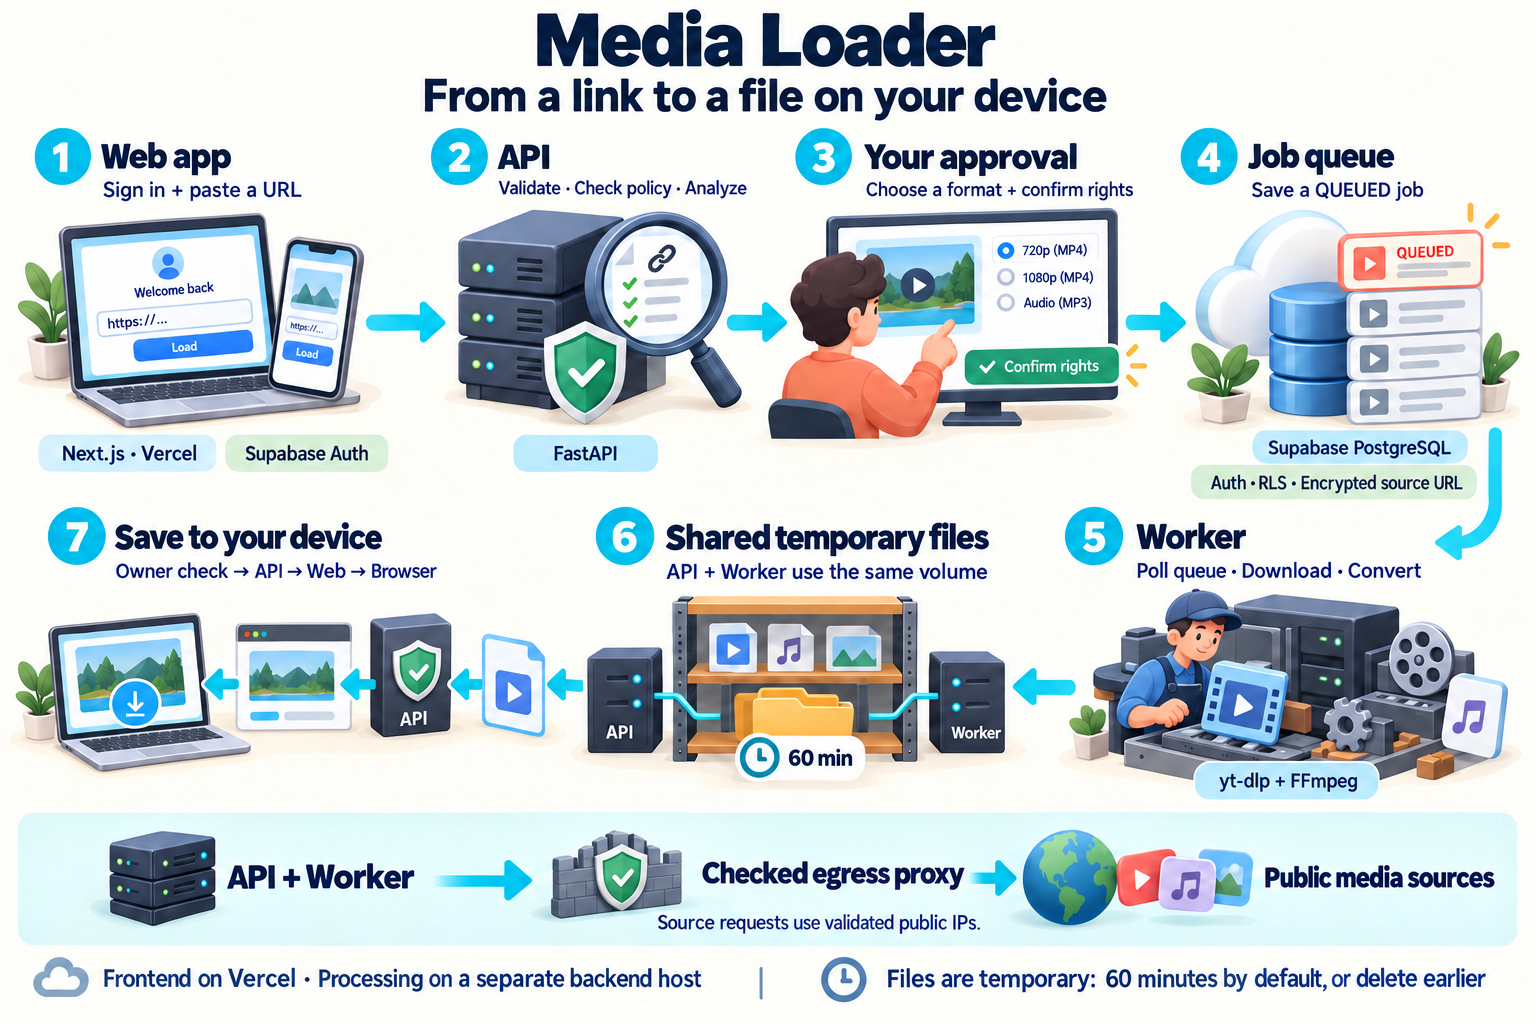
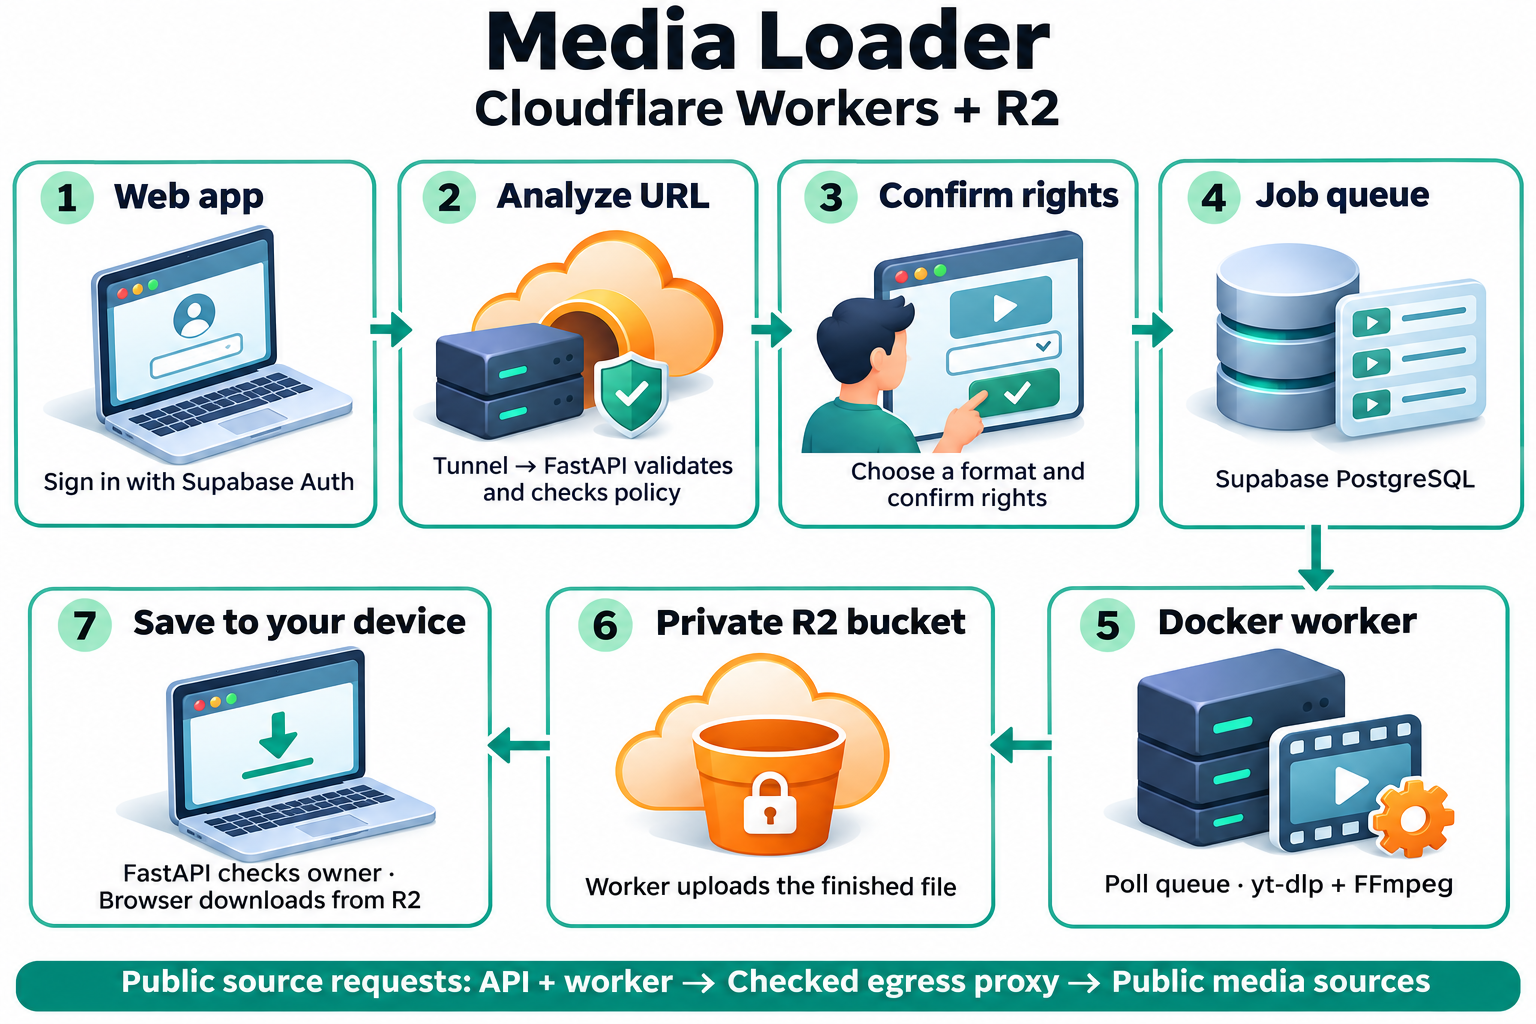
fix(web): improve signup and password recovery (#97)
* fix(web): improve signup and recovery follow-up

* docs(deploy): refresh Cloudflare architecture and setup

diff --git a/apps/web/e2e/auth.spec.ts b/apps/web/e2e/auth.spec.ts
@@ -71,7 +71,7 @@ test("signup confirmation and resend cooldown survive presentation redirects", a
   await page.locator("#auth-confirm").fill("Resize-fixture-123");
   await page.clock.install();
   await page.getByRole("button", { name: "Create account", exact: true }).click();
-  const heading = page.getByRole("heading", { name: "Check your email", exact: true });
+  const heading = page.getByRole("heading", { name: "Next steps", exact: true });
   await expect(heading).toBeVisible();
   await page.clock.runFor(20_000);
   for (const viewport of [
@@ -82,6 +82,8 @@ test("signup confirmation and resend cooldown survive presentation redirects", a
     if (viewport.width === 390) await expect(page).toHaveURL(/\/auth\/register$/);
     else await expect(page.getByRole("dialog")).toBeVisible();
     await expect(heading).toBeVisible();
+    await expect(page.getByRole("link", { name: "Back to sign in" })).toBeVisible();
+    await expect(page.getByRole("link", { name: "Forgot password?" })).toBeVisible();
     await expect(page.getByRole("button", { name: /Resend in/ })).toBeDisabled();
     await expect(page.getByRole("button", { name: /Resend in/ })).toContainText("40");
     await expect(page.locator("#auth-password")).toHaveCount(0);
@@ -90,6 +92,13 @@ test("signup confirmation and resend cooldown survive presentation redirects", a
   await expect(
     page.getByRole("button", { name: "Resend confirmation email", exact: true })
   ).toBeEnabled();
+  await page.getByRole("link", { name: "Forgot password?" }).click();
+  await expect(
+    page.getByRole("dialog").getByLabel("Email", { exact: true })
+  ).toBeVisible();
+  await expect(
+    page.getByRole("dialog").getByRole("button", { name: "Send reset link" })
+  ).toBeVisible();
 });
 
 test("callback failure remains visible with an existing session across presentations", async ({
@@ -133,7 +142,7 @@ test("pending signup finishes in the new presentation", async ({ page }) => {
   await expect(page).toHaveURL(/\/auth\/register$/);
   release();
   await expect(
-    page.getByRole("heading", { name: "Check your email", exact: true })
+    page.getByRole("heading", { name: "Next steps", exact: true })
   ).toBeVisible();
 });
 
@@ -300,10 +309,12 @@ test("registration validates passwords and sends optional display name metadata"
   const request = await signup;
   const { data } = request.postDataJSON();
   expect(data).toEqual({ full_name: "Fixture Member", language: "en" });
-  await expect(page.locator("form [role=status]")).toContainText("Check your email");
+  await expect(page.locator("form [role=status]")).toContainText(
+    "If your email still needs confirmation"
+  );
   await expect(page).toHaveURL(/\/\?auth=register$/);
   await expect(
-    page.getByRole("heading", { name: "Check your email", exact: true })
+    page.getByRole("heading", { name: "Next steps", exact: true })
   ).toBeVisible();
   await expect(page.getByLabel("Password", { exact: true })).toHaveCount(0);
   await expect(page.getByRole("button", { name: /Resend in/ })).toBeDisabled();
@@ -380,6 +391,7 @@ test("recovery session updates password and signs out before login", async ({
   context,
   page,
 }) => {
+  await page.setViewportSize({ width: 1440, height: 900 });
   await context.addCookies([
     {
       name: "sb-localhost-auth-token-code-verifier",
@@ -388,7 +400,17 @@ test("recovery session updates password and signs out before login", async ({
     },
   ]);
   await page.goto("/auth/callback?code=mock-code&next=/auth/reset-password");
-  await expect(page).toHaveURL(/\/auth\/reset-password$/);
+  await expect(page).toHaveURL(/\/\?auth=reset-password$/);
+  const modal = page.getByRole("dialog");
+  await expect(modal).toBeVisible();
+  const bounds = (await modal.boundingBox())!;
+  const viewport = await page.evaluate(() => ({
+    width: document.documentElement.clientWidth,
+    height: document.documentElement.clientHeight,
+  }));
+  // A reserved scrollbar gutter can shift the usable viewport center.
+  expect(Math.abs(bounds.x + bounds.width / 2 - viewport.width / 2)).toBeLessThan(8);
+  expect(Math.abs(bounds.y + bounds.height / 2 - viewport.height / 2)).toBeLessThan(8);
   const newPassword = page.getByLabel("New password", { exact: true });
   const confirmation = page.getByLabel("Confirm password", { exact: true });
   await expect(newPassword).toBeEnabled();
@@ -401,6 +423,14 @@ test("recovery session updates password and signs out before login", async ({
   await expect(page.locator("#auth-confirm-status")).toBeEmpty();
   await newPassword.fill("Fixture-new-password-123");
   await confirmation.fill("Fixture-new-password-123");
+  await page.setViewportSize({ width: 390, height: 844 });
+  await expect(page).toHaveURL(/\/auth\/reset-password$/);
+  await expect(modal).toHaveCount(0);
+  await expect(newPassword).toHaveValue("Fixture-new-password-123");
+  await page.setViewportSize({ width: 1440, height: 900 });
+  await expect(page).toHaveURL(/\/\?auth=reset-password$/);
+  await expect(modal).toBeVisible();
+  await expect(confirmation).toHaveValue("Fixture-new-password-123");
   const requests: string[] = [];
   page.on("request", (request) => {
     if (request.method() === "PUT" && request.url().endsWith("/auth/v1/user"))
@@ -498,11 +528,14 @@ test("reset finishes local signout after a remote error without repeating the up
   await expect(page.locator("form [role=alert]")).toContainText("Password updated");
   await expect(page.getByLabel("New password", { exact: true })).toHaveValue("");
   await expect(page.getByLabel("New password", { exact: true })).toBeDisabled();
+  await page.setViewportSize({ width: 390, height: 844 });
+  await expect(page).toHaveURL(/\/auth\/reset-password$/);
+  await page.setViewportSize({ width: 1440, height: 900 });
+  await expect(page.getByRole("dialog")).toBeVisible();
   await page.getByRole("button", { name: "Finish signing out" }).click();
   await expect(page).toHaveURL(/\/\?auth=login&reset=success$/);
   expect(updates).toBe(1);
-  // The SDK clears the local session even when the remote logout returns 500.
-  expect(logouts).toBe(1);
+  expect(logouts).toBe(2);
   await page.goto("/dashboard");
   await expect(page).toHaveURL("/");
 });

diff --git a/apps/web/components/auth-form.tsx b/apps/web/components/auth-form.tsx
@@ -222,7 +222,7 @@ export function AuthForm({
       setError(t(reset ? "auth.recoveryExpired" : "auth.googleError"));
     if (mode === "login" && params.get("reset") === "success")
       setMessage(t("auth.resetSuccess"));
-    if (reset) {
+    if (reset && !passwordUpdated) {
       createClient()
         .auth.getUser()
         .then(({ data, error: sessionError }) => {
@@ -237,7 +237,7 @@ export function AuthForm({
     return () => {
       active = false;
     };
-  }, [mode, reset, t, setError, setMessage]);
+  }, [mode, reset, passwordUpdated, t, setError, setMessage]);
 
   function safeError(cause: { code?: string; status?: number } | null) {
     if (
@@ -284,7 +284,8 @@ export function AuthForm({
       if (input instanceof HTMLInputElement) input.focus();
       return;
     }
-    if (reset && !recoveryReady) return setError(t("auth.recoveryExpired"));
+    if (reset && !recoveryReady && !passwordUpdated)
+      return setError(t("auth.recoveryExpired"));
     setBusy(true);
     try {
       const supabase = createClient();
@@ -757,9 +758,15 @@ export function AuthForm({
                   role="status"
                   aria-live="polite"
                   aria-atomic="true"
-                  className="flex items-start gap-2 rounded-lg border border-green-500/30 bg-green-500/10 p-3 text-sm text-green-800 dark:text-green-300"
+                  className={
+                    confirmationEmail
+                      ? "rounded-lg border border-border bg-bg-surface p-3 text-sm text-text"
+                      : "flex items-start gap-2 rounded-lg border border-green-500/30 bg-green-500/10 p-3 text-sm text-green-800 dark:text-green-300"
+                  }
                 >
-                  <Check size={16} className="mt-0.5 shrink-0" aria-hidden="true" />
+                  {!confirmationEmail && (
+                    <Check size={16} className="mt-0.5 shrink-0" aria-hidden="true" />
+                  )}
                   <span>{message}</span>
                 </p>
               )}
@@ -806,7 +813,7 @@ export function AuthForm({
                   type="submit"
                   className={styles.submit}
                   data-ready={isFormComplete}
-                  disabled={busy || (reset && !recoveryReady)}
+                  disabled={busy || (reset && !recoveryReady && !passwordUpdated)}
                 >
                   {busy
                     ? t("common.loading")
@@ -825,6 +832,15 @@ export function AuthForm({
                 >
                   <ArrowLeft size={15} aria-hidden="true" />
                   {t("auth.backToLogin")}
+                </Link>
+              )}
+              {confirmationEmail && (
+                <Link
+                  className="inline-flex min-h-11 items-center px-2 text-primary underline-offset-4 hover:underline"
+                  href="/auth/forgot-password"
+                  onClick={(event) => switchMode(event, "forgot-password")}
+                >
+                  {t("auth.forgotLink")}
                 </Link>
               )}
               {mode === "login" && (

diff --git a/apps/web/components/landing-auth-provider.tsx b/apps/web/components/landing-auth-provider.tsx
@@ -79,7 +79,8 @@ export function LandingAuthProvider({ children }: { children: ReactNode }) {
     if (
       requestedMode !== "login" &&
       requestedMode !== "register" &&
-      requestedMode !== "forgot-password"
+      requestedMode !== "forgot-password" &&
+      requestedMode !== "reset-password"
     )
       return;
     if (window.matchMedia(FULL_PAGE_AUTH_MEDIA_QUERY).matches) {
@@ -167,7 +168,7 @@ export function LandingAuthProvider({ children }: { children: ReactNode }) {
               key={mode}
               mode={mode}
               presentation="modal"
-              onModeChange={setMode}
+              onModeChange={mode === "reset-password" ? undefined : setMode}
             />
           )}
         </div>

diff --git a/apps/web/e2e/auth-routing.spec.ts b/apps/web/e2e/auth-routing.spec.ts
@@ -87,7 +87,8 @@ test.describe("Authentication routing", () => {
     await expect(page.locator("form [role=alert]")).toBeVisible();
     await expect(page.locator("body")).not.toContainText("private-fixture");
     await page.goto("/auth/callback?next=/auth/reset-password");
-    await expect(page).toHaveURL(/\/auth\/reset-password\?error=callback$/);
+    await expect(page).toHaveURL(/\/\?auth=reset-password&error=callback$/);
+    await expect(page.getByRole("dialog")).toBeVisible();
     await expect(page.locator("form [role=alert]")).toBeVisible();
   });
 

diff --git a/apps/web/lib/supabase/middleware.ts b/apps/web/lib/supabase/middleware.ts
@@ -62,7 +62,9 @@ export async function updateSession(request: NextRequest) {
     "/auth/forgot-password",
   ].includes(path);
   const hasCallbackError = request.nextUrl.searchParams.get("error") === "callback";
-  if (isAuthEntry && user && !hasCallbackError) {
+  const isRecoveryModal =
+    path === "/" && request.nextUrl.searchParams.get("auth") === "reset-password";
+  if (isAuthEntry && user && !hasCallbackError && !isRecoveryModal) {
     return redirectWithCookies("/dashboard");
   }
 

diff --git a/apps/web/components/auth-route.tsx b/apps/web/components/auth-route.tsx
@@ -9,7 +9,7 @@ import styles from "./auth-form.module.css";
 export function AuthRoute({
   mode,
 }: {
-  mode: "login" | "register" | "forgot-password";
+  mode: "login" | "register" | "forgot-password" | "reset-password";
 }) {
   const router = useRouter();
 

diff --git a/apps/web/app/auth/reset-password/page.tsx b/apps/web/app/auth/reset-password/page.tsx
@@ -1,5 +1,5 @@
-import { AuthForm } from "@/components/auth-form";
+import { AuthRoute } from "@/components/auth-route";
 
 export default function AuthPage() {
-  return <AuthForm mode="reset-password" />;
+  return <AuthRoute mode="reset-password" />;
 }

diff --git a/CHANGELOG.md b/CHANGELOG.md
@@ -6,6 +6,8 @@ High-level summary of Media Loader's commit history from the initial commit on 2
 
 ### Fixed
 
+- Clarify the signup follow-up in Thai and English and link to sign-in and password recovery without disclosing whether the email already belongs to an account.
+- Open the reset-password form in the shared Auth dialog on desktop after the recovery callback. Preserve the mobile form, password input during viewport changes, and sign-out retry after a successful password update.
 - Probe Supabase with a zero-row `profiles` query instead of the OpenAPI root, which now rejects anon/publishable keys; retain RLS and avoid fetching user records or requiring elevated keys.
 - Send Supabase keep-alive API keys only in the `apikey` header so publishable keys are not rejected as JWT bearer tokens; support publishable-key Actions secrets alongside legacy anon names, bound job runtime, and report authentication failures without retrying them.
 - Add credential-free CI regression checks for the keep-alive workflow's actual Bash script, covering legacy and publishable keys, missing configuration, retries, transport failures, and REST/Auth failures; document Actions setup and recovery in English and Thai.
@@ -21,6 +23,8 @@ High-level summary of Media Loader's commit history from the initial commit on 2
 
 ### Changed
 
+- Clarified Cloudflare Workers build variable placement and Docker Compose recreation after backend CORS changes in both deployment guides.
+- Replaced the English and Thai architecture illustrations and aligned their README descriptions with the Cloudflare Workers frontend, Docker processing, and owner-checked browser delivery from private R2.
 - Updated `apps/web/lib/api-client.ts` and `apps/web/app/api/files/download/[jobId]/route.ts` to use absolute R2 presigned URLs directly and forward `307` redirects without proxying media bytes through web server functions.
 - Updated `apps/web/next.config.ts` to use `fileURLToPath(import.meta.url)` instead of CommonJS `__dirname` for ESM/Vite compatibility.
 - Updated `.env.example`, `README.md`, `README.th.md`, `docs/README.md`, `docs/AGENT_GUIDELINES.md`, and English/Thai `ARCHITECTURE.md`, `ENVIRONMENT_VARIABLES.md`, `SECURITY_AND_POLICY.md`, and `DEVELOPER_GUIDE.md` to document Cloudflare Workers deployment and R2 storage modes.

diff --git a/docs/en/ARCHITECTURE.md b/docs/en/ARCHITECTURE.md
@@ -20,7 +20,7 @@ The API and worker use the same local media-output volume in the default
 `media-output` volume. A worker on a different host must not claim jobs whose
 files it cannot share with the API.
 
-See the illustrated architecture in [English](../images/media-loader-architecture-en.png)
+See the Cloudflare Level 1B architecture in [English](../images/media-loader-architecture-en.png)
 or [Thai](../images/media-loader-architecture-th.png). Follow the numbered flow
 from URL entry to owner-checked file delivery; the bottom strip shows the checked
 egress path used for source requests.
@@ -91,6 +91,8 @@ Legal links from login and registration carry an allowlisted `from` mode. Their
 back links restore that auth mode, including the desktop modal; direct legal-page
 visits return home. Switching between legal documents preserves the auth origin.
 Desktop legal back links target the landing modal directly, without an intermediate auth page.
+When sign-up succeeds without a session, the app gives neutral email confirmation
+guidance and links to sign-in and password recovery for returning users.
 Registration accepts an optional display name stored as `full_name` metadata;
 it is not a username credential. Email signup stores the selected interface
 language as `language` user metadata. When changed, the interface language is
@@ -117,8 +119,10 @@ recovery redirect includes only `next=/auth/reset-password`; it does not pass a
 locale query parameter. The app does not select a language for the hosted
 Supabase email template.
 
-`/auth/reset-password` requires a verified authenticated session before updating
-the password. After the update, the app signs out globally and opens
+`/auth/reset-password` opens the same landing-page dialog as password recovery on
+desktop. Phone-sized and short-landscape viewports use the full-page form. Both
+presentations require a verified authenticated session before updating the
+password. After the update, the app signs out globally and opens
 `/auth/login?reset=success` with a full navigation. If sign-out fails after the
 password was changed, retry signs out again without repeating the password update.
 
